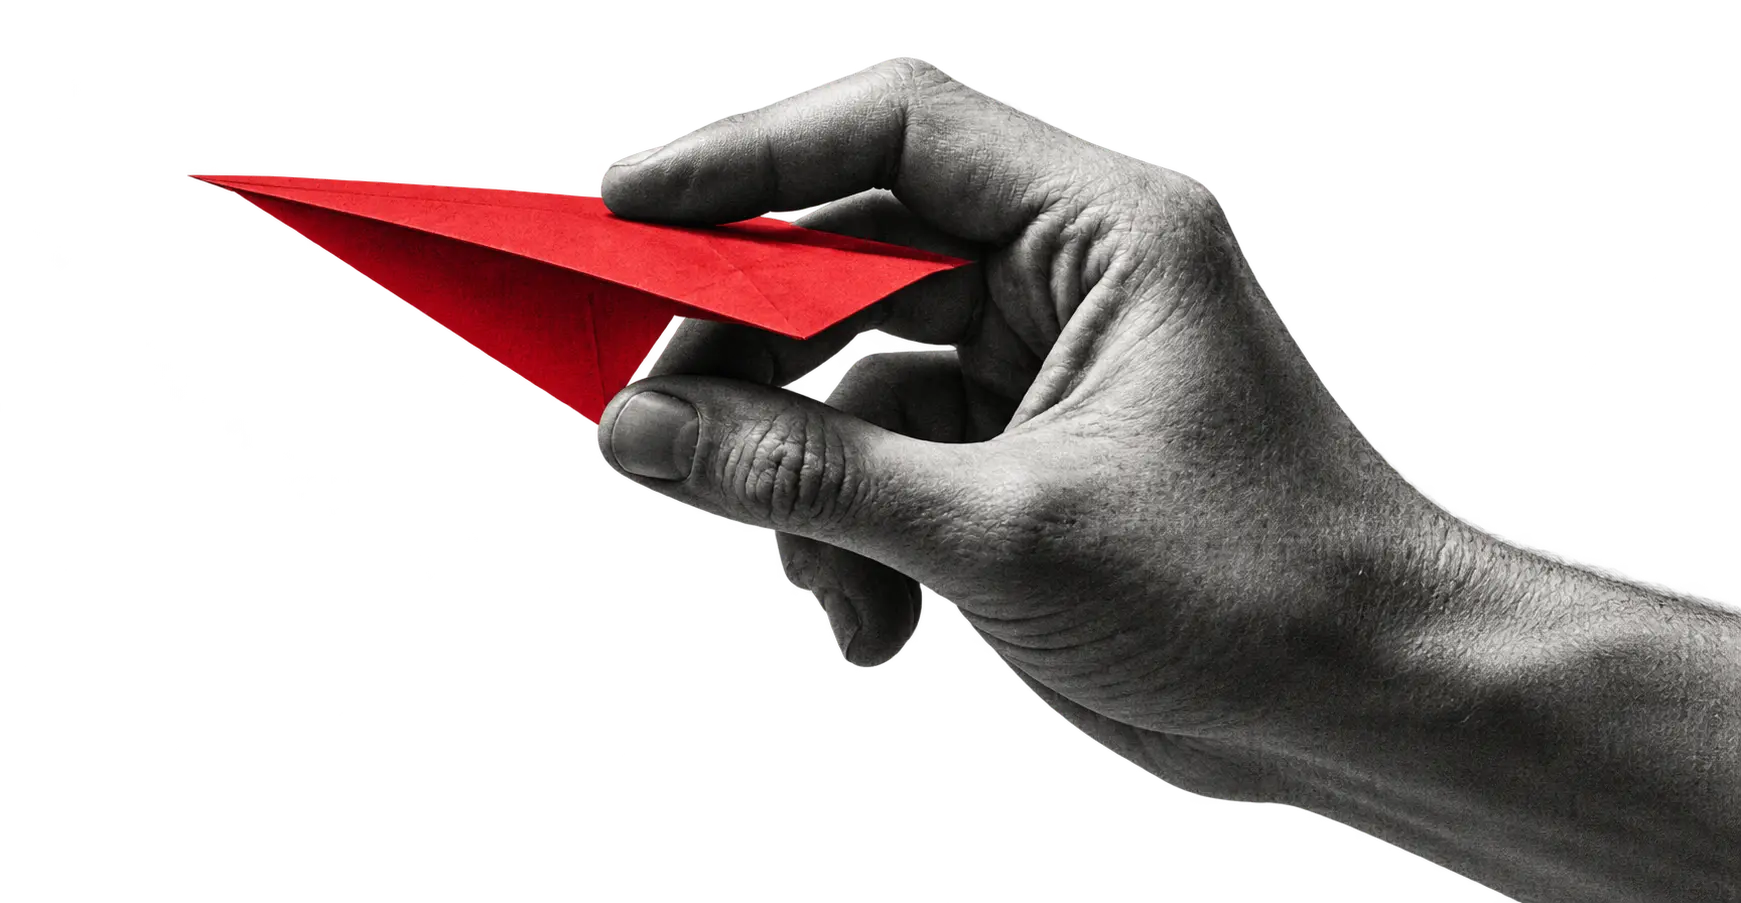
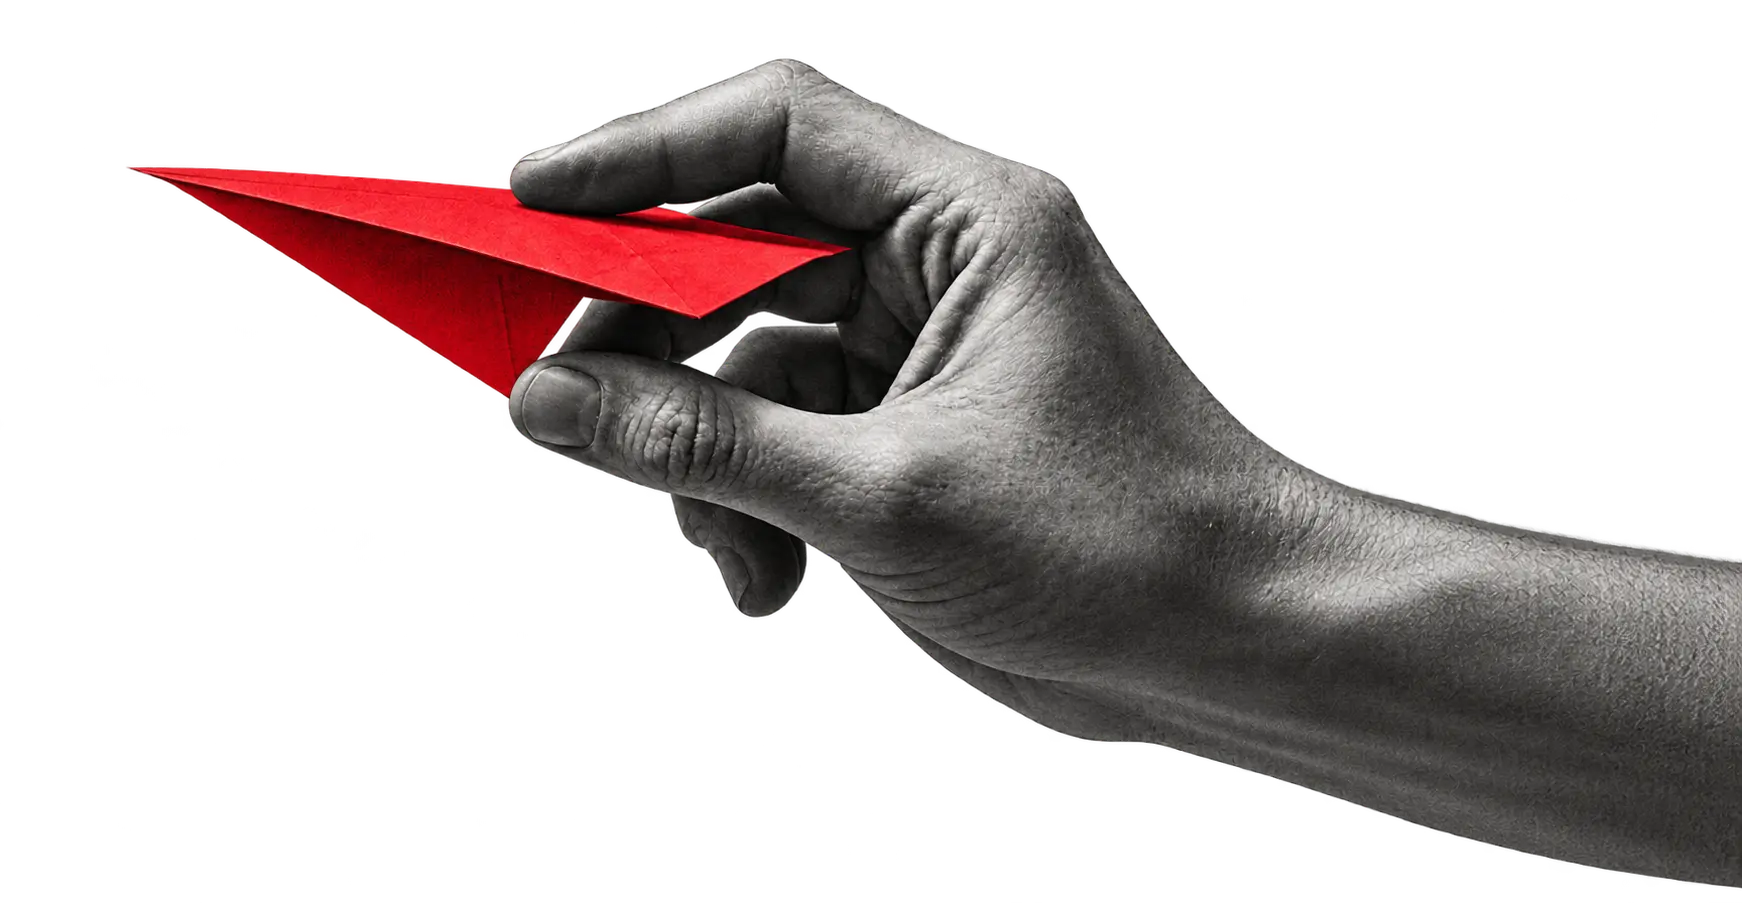
fix url for company

Changed region(s): [[0.062, 0.062, 1.0, 1.0]]

diff --git a/intership-app/src/views/CompanyDetails.vue b/intership-app/src/views/CompanyDetails.vue
@@ -1,10 +1,12 @@
 <script setup>
-import { computed } from 'vue'
-import { useRoute, RouterLink } from 'vue-router'
+import { computed, watch } from 'vue'
+import { useRoute, useRouter, RouterLink } from 'vue-router'
+import { getCompanySlug } from '@/utils/companyUrls'
 import companiesData from '@/data/companies.json'
 import { getCompanyFields } from '@/utils/internshipFields'
 
 const route = useRoute()
+const router = useRouter()
 
 const splitValues = (value) => {
   const values = Array.isArray(value) ? value : [value || '']
@@ -51,11 +53,17 @@ const company = computed(() => {
     // Use the imported data if the saved list cannot be read.
   }
 
-  const item = data.find((entry) => String(entry.companyId) === String(route.params.id))
+  const requestedSlug = String(route.params.slug || '')
+
+  // Find by readable name, with support for old links containing an ID.
+  const item =
+    data.find((entry) => getCompanySlug(entry) === requestedSlug) ||
+    data.find((entry) => String(entry.companyId) === requestedSlug)
 
   if (!item) return null
 
   return {
+    slug: getCompanySlug(item),
     brandName: item.brandName || item['name (source / legal)'],
     city: String(item.city || '').trim(),
     description: String(item.description || '').trim(),
@@ -73,6 +81,22 @@ const company = computed(() => {
     fields: getCompanyFields(item),
   }
 })
+
+// Replace an old ID-based address with the readable company address.
+watch(
+  () => company.value?.slug,
+  (slug) => {
+    if (!slug || String(route.params.slug) === slug) return
+
+    router.replace({
+      name: 'company-details',
+      params: { slug },
+      query: route.query,
+      hash: route.hash,
+    })
+  },
+  { immediate: true },
+)
 
 const backToCompanies = computed(() => ({
   path: '/companies',
@@ -290,7 +314,7 @@ const downloadPDF = () => window.print()
     >
       <!-- Building and sun on the left -->
       <img
-        src="/images/building-sun.png"
+        src="/images/building-sun.webp"
         alt=""
         draggable="false"
         class="absolute bottom-0 left-0 w-[180px] sm:w-[320px] lg:w-[460px] max-w-[45%] h-auto"
@@ -298,7 +322,7 @@ const downloadPDF = () => window.print()
 
       <!-- Man on the right -->
       <img
-        src="/images/man-roof.png"
+        src="/images/man-roof.webp"
         alt=""
         draggable="false"
         class="block ml-auto w-[380px] sm:w-[540px] lg:w-[680px] max-w-[55%] h-auto"

diff --git a/intership-app/src/views/Companies.vue b/intership-app/src/views/Companies.vue
@@ -1,4 +1,5 @@
 <script setup>
+import { getCompanySlug } from '@/utils/companyUrls'
 import { ref, computed, onMounted, watch, nextTick } from 'vue'
 import { useRouter, useRoute, RouterLink } from 'vue-router'
 import CustomSelect from '@/components/Home/CustomSelect.vue'
@@ -212,6 +213,7 @@ onMounted(async () => {
 
     return {
       id: item.companyId,
+      slug: getCompanySlug(item),
       brandName: item.brandName || item['name (source / legal)'],
       city: item.city ? item.city.trim() : '',
       description: item.description || item['description'] || '',
@@ -410,7 +412,15 @@ watch(
 )
 
 const openDetails = (id) => {
-  router.push(`/company/${id}`)
+  const company = companies.value.find((item) => String(item.id) === String(id))
+
+  if (!company) return
+
+  router.push({
+    name: 'company-details',
+    params: { slug: company.slug },
+    query: listQuery.value,
+  })
 }
 
 // Function to download filtered companies list as PDF using jsPDF
@@ -707,7 +717,7 @@ const downloadPDF = () => {
       class="pointer-events-none absolute inset-x-0 bottom-0 z-0 h-[200px] sm:h-[300px] lg:h-[400px] overflow-hidden"
     >
       <img
-        src="/images/building-sun.png"
+        src="/images/building-sun.webp"
         alt=""
         draggable="false"
         loading="lazy"
@@ -1058,7 +1068,11 @@ const downloadPDF = () => {
                 <!-- Company details link -->
                 <div class="border-t border-ink/10 pt-3">
                   <RouterLink
-                    :to="{ path: `/company/${company.id}`, query: listQuery }"
+                    :to="{
+                      name: 'company-details',
+                      params: { slug: company.slug },
+                      query: listQuery,
+                    }"
                     :aria-label="`View company: ${company.brandName}`"
                     class="inline-flex min-h-11 items-center gap-2 text-[15px] font-semibold text-brand-red hover:text-brand-red-hover hover:underline underline-offset-4 transition-colors focus-visible:outline-2 focus-visible:outline-offset-4 focus-visible:outline-brand-red"
                   >

diff --git a/intership-app/src/utils/companyUrls.js b/intership-app/src/utils/companyUrls.js
@@ -1,0 +1,19 @@
+// Convert a company name into a readable URL segment.
+export const getCompanySlug = (company) => {
+  const name = company.slug ||
+    company.brandName ||
+    company['name (source / legal)'] ||
+    ''
+
+  return String(name)
+    .trim()
+    .toLowerCase()
+    .replace(/æ/g, 'ae')
+    .replace(/ø/g, 'o')
+    .replace(/å/g, 'a')
+    .replace(/&/g, ' and ')
+    .normalize('NFKD')
+    .replace(/[\u0300-\u036f]/g, '')
+    .replace(/[^a-z0-9]+/g, '-')
+    .replace(/^-+|-+$/g, '')
+}

diff --git a/intership-app/src/router/index.js b/intership-app/src/router/index.js
@@ -20,7 +20,7 @@ const router = createRouter({
       component: CompaniesView
     },
     {
-      path: '/company/:id',
+      path: '/company/:slug',
       name: 'company-details',
       component: CompanyDetailsView
     },
